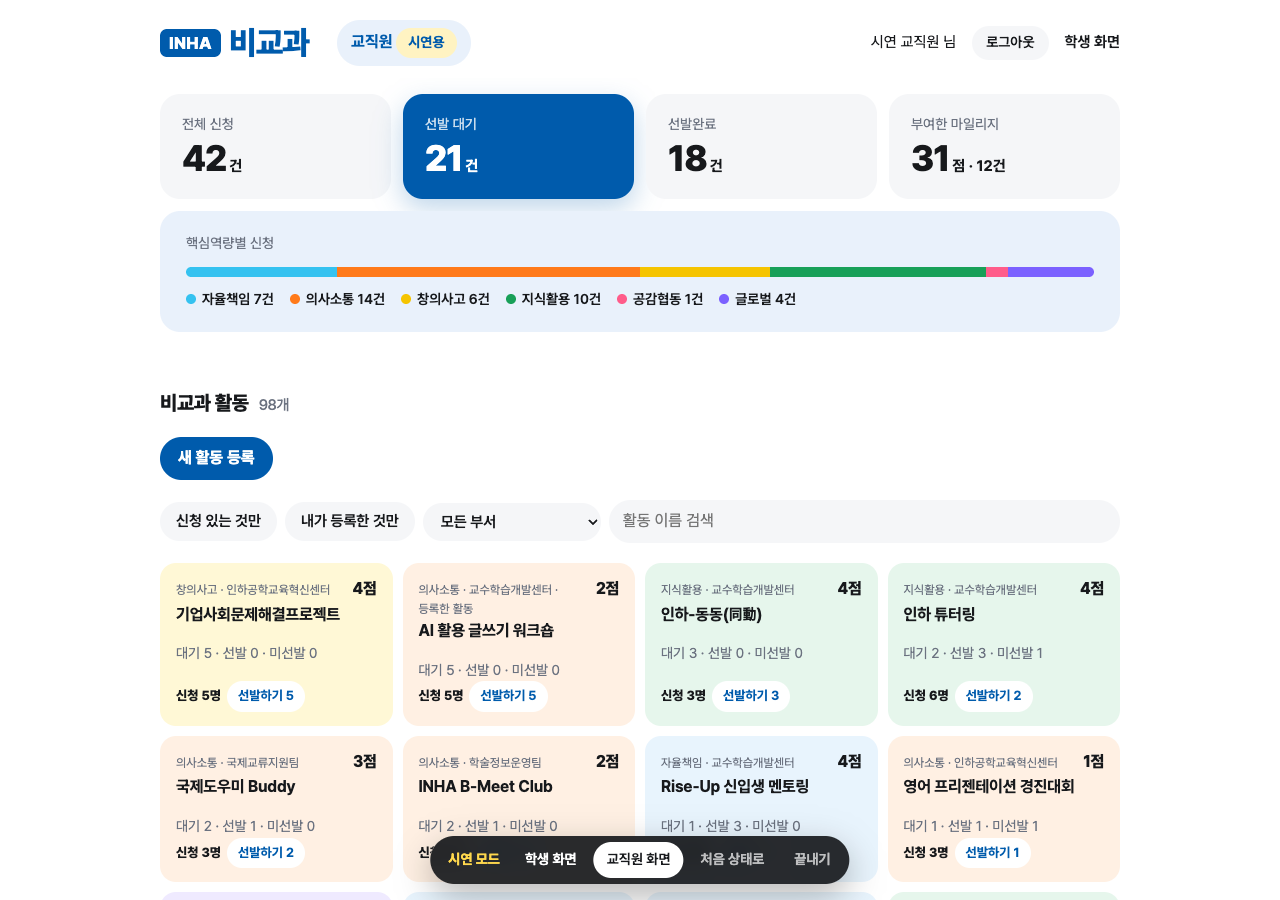
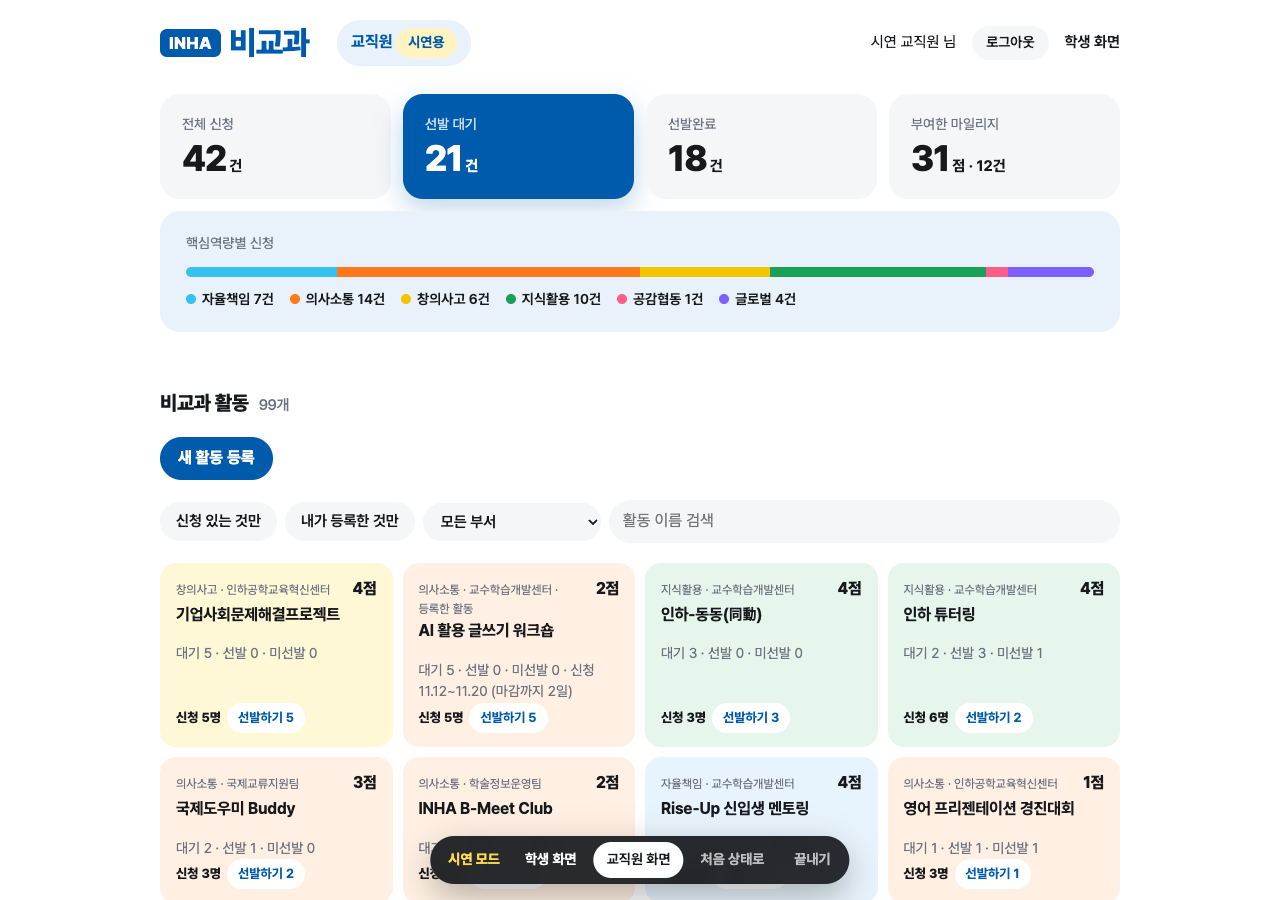
feat: 교직원이 활동 등록 때 신청 기간 지정, 학생 화면에 남은 신청 기간 표시

Changed region(s): [[0.125, 0.7467, 0.875, 1.0]]

diff --git a/js/admin.js b/js/admin.js
@@ -42,6 +42,8 @@ const program = PROGRAMS.find((p) => p.name === wanted);
 if (wanted && !program) location.replace('admin.html');
 $(program ? 'detailView' : 'listView').hidden = false;
 
+// 신청 기간이 있는 활동이면 ' · 신청 11.20~12.2 (마감까지 5일)'
+const periodText = (p) => { const period = applyPeriod(p, todayText()); return period ? ` · 신청 ${shortDate(p.applyFrom)}~${shortDate(p.applyTo)} (${periodLabel(period)})` : ''; };
 const applicantsOf = (name) => Object.entries(applications[name] || {});
 const count = (name, status) => applicantsOf(name).filter(([, a]) => a.status === status).length;
 
@@ -79,7 +81,7 @@ function renderList() {
     mine.append(
       el('span', total ? 'count' : 'count none', total ? `신청 ${total}명` : '신청 없음'),
       Object.assign(el('a', 'pill-link', waiting ? `선발하기 ${waiting}` : '신청자 보기'), { href: `admin.html?p=${encodeURIComponent(p.name)}` }));
-    const detail = total ? `대기 ${waiting} · 선발 ${count(p.name, 'selected')} · 미선발 ${count(p.name, 'rejected')}` : '아직 신청한 학생이 없어요';
+    const detail = (total ? `대기 ${waiting} · 선발 ${count(p.name, 'selected')} · 미선발 ${count(p.name, 'rejected')}` : '아직 신청한 학생이 없어요') + periodText(p);
     li.append(top, el('h3', '', p.name), el('p', 'hint', detail), mine);
     return li;
   }));
@@ -144,7 +146,7 @@ const render = program ? renderDetail : renderList;
 if (program) {
   document.title = `${program.name} 신청자 · 교직원 화면`;
   $('programName').textContent = program.name;
-  $('programInfo').textContent = `${program.dept} · ${program.comp} · 마일리지 ${program.points}점${program.team ? ` · 팀 구성: ${program.team}` : ''}`;
+  $('programInfo').textContent = `${program.dept} · ${program.comp} · 마일리지 ${program.points}점${program.team ? ` · 팀 구성: ${program.team}` : ''}${periodText(program)}`;
   document.querySelector('.pills').addEventListener('change', render);
   // 한 번에 처리: 대기 중인 신청을 모두 선발 / 아직 점수가 없는 선발자에게 활동의 기본 점수 부여
   $('grantAll').textContent = `선발자 전원에게 ${program.points}점 부여`;
@@ -184,11 +186,14 @@ if (program) {
     if (PROGRAMS.some((p) => p.name === name)) { say(`"${name}" 활동이 이미 있어요. 다른 이름으로 등록해 주세요.`); return; }
     // 값은 고르는 칸에서만 오게 하고, 점수는 1~30 사이로 맞춤 (저장된 값을 학생 화면이 그대로 씀)
     if (!name || !(text('pDept') in DEPTS) || !COMPS.includes(text('pComp'))) return;
+    const isDate = (value) => /^\d{4}-\d{2}-\d{2}$/.test(value);
+    if (!isDate(text('pFrom')) || !isDate(text('pTo'))) { say('신청 시작일과 마감일을 넣어 주세요.'); return; }
+    if (text('pFrom') > text('pTo')) { say('신청 마감일이 시작일보다 빨라요.'); return; }
     const added = {
       name, dept: text('pDept'), comp: text('pComp'),
       points: Math.min(30, Math.max(1, Math.round(Number($('pPoints').value)) || 1)),
       months: { term: TERM, vac: VAC, year: R(1, 12), any: ALL }[$('pWhen').value] ?? ALL,
-      custom: true,
+      applyFrom: text('pFrom'), applyTo: text('pTo'), custom: true,
     };
     if (text('pTeam')) added.team = text('pTeam');
     if (text('pNote')) added.note = text('pNote');

diff --git a/js/programs.js b/js/programs.js
@@ -33,7 +33,9 @@ function renderList() {
     (!$('dept').value || p.dept === $('dept').value) &&
     (!$('teamOnly').checked || p.team) &&
     (!$('appliedOnly').checked || applications[p.name]?.[me]) &&
-    (!q || p.name.toLowerCase().includes(q)));
+    (!q || p.name.toLowerCase().includes(q)))
+    // 지금 신청 기간인 활동을 맨 앞에
+    .sort((a, b) => (applyPeriod(b, todayText())?.state === 'open') - (applyPeriod(a, todayText())?.state === 'open'));
 
   $('count').textContent = `${shown.length}개`;
   $('empty').hidden = shown.length > 0;
@@ -47,6 +49,8 @@ function renderList() {
     const info = el('dl', 'info');
     const row = (title, ...detail) => { const dd = el('dd'); dd.append(...detail); info.append(el('dt', '', title), dd); };
     row('부서', Object.assign(el('a', '', p.dept), { href: DEPTS[p.dept], target: '_blank', rel: 'noopener' }));
+    const period = applyPeriod(p, todayText());
+    if (period) row('신청', `${shortDate(p.applyFrom)} ~ ${shortDate(p.applyTo)}`);
     if (p.team) row('팀', p.team);
     if (p.note) row('참고', p.note);
     const more = el('details');
@@ -55,10 +59,15 @@ function renderList() {
     // 학생은 신청만 함. 선발과 점수는 교직원 화면에서.
     const mine = el('div', 'mine');
     const application = applications[p.name]?.[me];
-    if (!application) {
+    // 신청 기간이 있는 활동은 남은 기간을 보여주고, 기간 밖에서는 신청을 막음
+    if (period && !application) mine.append(el('span', `period ${period.state}${period.state === 'open' && period.days <= 3 ? ' soon' : ''}`, periodLabel(period)));
+    if (!application && period && period.state !== 'open') {
+      // 신청 단추 없음
+    } else if (!application) {
       const button = el('button', 'primary', '신청하기');
       button.type = 'button';
       button.addEventListener('click', () => {
+        if (period && applyPeriod(p, todayText()).state !== 'open') { renderList(); return; } // 화면을 켜 둔 사이 마감된 경우
         (applications[p.name] ??= {})[me] = { status: 'applied', at: Date.now(), name: profile.name || '', dept: profile.dept || '' };
         saveApplications(); renderList();
       });

diff --git a/js/logic.js b/js/logic.js
@@ -32,6 +32,25 @@ function summarize(records, programs, term) {
 // 신청 상태 (학생 화면과 교직원 화면이 같이 씀)
 const APPLY_STATUS = { applied: '대기', selected: '선발완료', rejected: '미선발' };
 
+// 신청 기간. applyFrom~applyTo는 '2026-11-20' 모양이고 두 날 모두 신청할 수 있음. today도 같은 모양.
+// 기간이 없는 프로그램(가이드북 목록)은 null. state: before(시작 전) / open(신청 중) / closed(마감), days: 시작 또는 마감까지 남은 날
+function applyPeriod(program, today) {
+  if (!program.applyFrom || !program.applyTo) return null;
+  const days = (from, to) => Math.round((Date.parse(to) - Date.parse(from)) / 86400000);
+  if (today < program.applyFrom) return { state: 'before', days: days(today, program.applyFrom) };
+  if (today > program.applyTo) return { state: 'closed', days: 0 };
+  return { state: 'open', days: days(today, program.applyTo) };
+}
+const periodLabel = ({ state, days }) => ({
+  before: `${days}일 뒤 신청 시작`,
+  open: days === 0 ? '오늘 마감' : `마감까지 ${days}일`,
+  closed: '신청 마감',
+}[state]);
+// 날짜를 '2026-11-20' 모양으로 (이 기기 시간 기준, 안 주면 오늘)
+const todayText = (d = new Date()) => { return [d.getFullYear(), String(d.getMonth() + 1).padStart(2, '0'), String(d.getDate()).padStart(2, '0')].join('-'); };
+// '2026-11-20' → '11.20'
+const shortDate = (text) => `${Number(text.slice(5, 7))}.${Number(text.slice(8, 10))}`;
+
 const isStudentId = (text) => /^\d{8}$/.test(text);
 
 // 게시판 글쓴이 표시: 학번 전체 대신 입학 연도만 (12221234 → "22학번"). 인하대 학번이 12 + 입학 연도 두 자리로 시작한다고 가정함.
@@ -49,5 +68,5 @@ function grantedFor(applications, studentId) {
 }
 
 if (typeof module !== 'undefined') {
-  module.exports = { mileageTerm, termMonths, runsIn, summarize, APPLY_STATUS, isStudentId, authorLabel, grantedFor };
+  module.exports = { mileageTerm, termMonths, runsIn, summarize, APPLY_STATUS, isStudentId, authorLabel, grantedFor, applyPeriod, periodLabel, shortDate };
 }

diff --git a/js/demo.js b/js/demo.js
@@ -16,7 +16,12 @@ function seedDemo() {
     12229004: ['최용현', '기계공학과'], 12259005: ['정하늘', '국제통상학과'], 12239006: ['한바다', '해양과학과'],
     12249007: ['오하윤', '화학공학과'], 12259008: ['서지우', '전자공학과'], 12239009: ['문태오', '통계학과'],
   };
-  const custom = [{ name: 'AI 활용 글쓰기 워크숍', dept: '교수학습개발센터', comp: '의사소통', points: 2, months: TERM, custom: true, note: '회차별 20명' }];
+  // 교직원이 등록한 활동: 신청 중(마감 임박) 하나, 곧 시작 하나
+  const dateText = (offset) => todayText(new Date(now + offset * day));
+  const custom = [
+    { name: 'AI 활용 글쓰기 워크숍', dept: '교수학습개발센터', comp: '의사소통', points: 2, months: TERM, custom: true, note: '회차별 20명', applyFrom: dateText(-6), applyTo: dateText(2) },
+    { name: '겨울방학 코딩 부트캠프', dept: '인하공학교육혁신센터', comp: '지식활용', points: 4, months: VAC, custom: true, note: '3주 과정', applyFrom: dateText(4), applyTo: dateText(18) },
+  ];
 
   // '학번:상태+점수'. a=대기, s=선발완료, r=미선발, 뒤의 숫자는 부여한 점수. 끝에 p가 붙으면 지난 학기 점수.
   const plan = {
@@ -33,7 +38,7 @@ function seedDemo() {
     '인하-동동(同動)': '12239002:a 12249007:a 12259008:a',
     'INHA B-Meet Club': '12249003:a 12249007:s 12239009:a',
     '영어 프리젠테이션 경진대회': '12229001:r 12259008:s 12229004:a',
-    'AI 활용 글쓰기 워크숍': '12229001:a 12239002:a 12239006:a 12249007:a 12239009:a',
+    'AI 활용 글쓰기 워크숍': '12259008:a 12239002:a 12239006:a 12249007:a 12239009:a', // 시연 학생은 아직 신청 전 (직접 눌러 보게)
   };
   const applications = {};
   let n = 0;

diff --git a/js/test.js b/js/test.js
@@ -1,7 +1,7 @@
 // 실행: node js/test.js
 const assert = require('node:assert');
 const { PROGRAMS, DEPTS, COMPS } = require('./data.js');
-const { mileageTerm, termMonths, runsIn, summarize, grantedFor, authorLabel } = require('./logic.js');
+const { mileageTerm, termMonths, runsIn, summarize, grantedFor, authorLabel, applyPeriod, periodLabel, shortDate } = require('./logic.js');
 
 // 데이터 검사
 assert.equal(new Set(PROGRAMS.map((p) => p.name)).size, PROGRAMS.length, '프로그램 이름이 겹침');
@@ -48,6 +48,19 @@ const apps = {
 assert.deepEqual(grantedFor(apps, '12201234'), { '2026-2': { '인하 튜터링': 4 }, '2026-1': { '국제도우미 Buddy': 3 } });
 assert.deepEqual(grantedFor(apps, '00000000'), {});
 assert.equal(summarize(grantedFor(apps, '12201234'), PROGRAMS, '2026-2').termTotal, 4);
+
+// 신청 기간
+{
+  const p = { applyFrom: '2026-11-20', applyTo: '2026-12-02' };
+  assert.equal(applyPeriod({}, '2026-11-20'), null); // 기간이 없는 프로그램
+  assert.deepEqual(applyPeriod(p, '2026-11-17'), { state: 'before', days: 3 });
+  assert.deepEqual(applyPeriod(p, '2026-11-20'), { state: 'open', days: 12 }); // 시작하는 날, 달이 넘어가도 계산됨
+  assert.deepEqual(applyPeriod(p, '2026-12-02'), { state: 'open', days: 0 });  // 마감하는 날까지 신청 가능
+  assert.deepEqual(applyPeriod(p, '2026-12-03'), { state: 'closed', days: 0 });
+  assert.equal(periodLabel({ state: 'open', days: 0 }), '오늘 마감');
+  assert.equal(periodLabel({ state: 'open', days: 5 }), '마감까지 5일');
+  assert.equal(shortDate('2026-03-05'), '3.5');
+}
 
 // 글쓴이 표시
 assert.equal(authorLabel('12221234'), '22학번');

diff --git a/admin.html b/admin.html
@@ -5,7 +5,7 @@
 <meta name="viewport" content="width=device-width, initial-scale=1">
 <title>교직원 화면 (시연용) · 인하 비교과 마일리지</title>
 <link rel="stylesheet" href="https://cdn.jsdelivr.net/gh/orioncactus/pretendard@v1.3.9/dist/web/variable/pretendardvariable-dynamic-subset.min.css">
-<link rel="stylesheet" href="css/style.css?v=25">
+<link rel="stylesheet" href="css/style.css?v=26">
 </head>
 <body>
 <main>
@@ -56,6 +56,10 @@
             <option value="year">연중</option>
             <option value="any">상시 (공지 확인)</option>
           </select></label>
+        <label>신청 시작일
+          <input id="pFrom" type="date" required></label>
+        <label>신청 마감일
+          <input id="pTo" type="date" required></label>
         <label>팀 구성 (팀 활동일 때만)
           <input id="pTeam" maxlength="40" placeholder="예: 3~5명 팀"></label>
         <label>참고 (선택)
@@ -107,9 +111,9 @@
     <div class="actions" style="margin-top:32px"><button type="button" id="removeProgram" hidden>이 활동 삭제</button></div>
   </section>
 </main>
-<script src="js/data.js?v=25"></script>
-<script src="js/logic.js?v=25"></script>
-<script src="js/demo.js?v=25"></script>
-<script src="js/admin.js?v=25"></script>
+<script src="js/data.js?v=26"></script>
+<script src="js/logic.js?v=26"></script>
+<script src="js/demo.js?v=26"></script>
+<script src="js/admin.js?v=26"></script>
 </body>
 </html>

diff --git a/mypage.html b/mypage.html
@@ -5,7 +5,7 @@
 <meta name="viewport" content="width=device-width, initial-scale=1">
 <title>마이페이지 · 인하 비교과 마일리지</title>
 <link rel="stylesheet" href="https://cdn.jsdelivr.net/gh/orioncactus/pretendard@v1.3.9/dist/web/variable/pretendardvariable-dynamic-subset.min.css">
-<link rel="stylesheet" href="css/style.css?v=25">
+<link rel="stylesheet" href="css/style.css?v=26">
 </head>
 <body>
 <main class="my">
@@ -59,12 +59,12 @@
   <ul id="myComments" class="posts" aria-labelledby="comments-title"></ul>
   <p id="commentsEmpty" class="empty">아직 쓴 댓글이 없어요.</p>
 </main>
-<script src="js/data.js?v=25"></script>
-<script src="js/logic.js?v=25"></script>
-<script src="js/demo.js?v=25"></script>
-<script src="js/config.js?v=25"></script>
-<script src="js/board.js?v=25"></script>
-<script src="js/common.js?v=25"></script>
-<script src="js/mypage.js?v=25"></script>
+<script src="js/data.js?v=26"></script>
+<script src="js/logic.js?v=26"></script>
+<script src="js/demo.js?v=26"></script>
+<script src="js/config.js?v=26"></script>
+<script src="js/board.js?v=26"></script>
+<script src="js/common.js?v=26"></script>
+<script src="js/mypage.js?v=26"></script>
 </body>
 </html>

diff --git a/programs.html b/programs.html
@@ -5,7 +5,7 @@
 <meta name="viewport" content="width=device-width, initial-scale=1">
 <title>프로그램 신청 · 인하 비교과 마일리지</title>
 <link rel="stylesheet" href="https://cdn.jsdelivr.net/gh/orioncactus/pretendard@v1.3.9/dist/web/variable/pretendardvariable-dynamic-subset.min.css">
-<link rel="stylesheet" href="css/style.css?v=25">
+<link rel="stylesheet" href="css/style.css?v=26">
 </head>
 <body>
 <main>
@@ -53,12 +53,12 @@
       확정 마일리지는 인하포털 → 학사행정 → 비교과과정에서 확인하세요.</p>
   </div>
 </footer>
-<script src="js/data.js?v=25"></script>
-<script src="js/logic.js?v=25"></script>
-<script src="js/demo.js?v=25"></script>
-<script src="js/config.js?v=25"></script>
-<script src="js/board.js?v=25"></script>
-<script src="js/common.js?v=25"></script>
-<script src="js/programs.js?v=25"></script>
+<script src="js/data.js?v=26"></script>
+<script src="js/logic.js?v=26"></script>
+<script src="js/demo.js?v=26"></script>
+<script src="js/config.js?v=26"></script>
+<script src="js/board.js?v=26"></script>
+<script src="js/common.js?v=26"></script>
+<script src="js/programs.js?v=26"></script>
 </body>
 </html>

diff --git a/index.html b/index.html
@@ -5,7 +5,7 @@
 <meta name="viewport" content="width=device-width, initial-scale=1">
 <title>인하 비교과 마일리지</title>
 <link rel="stylesheet" href="https://cdn.jsdelivr.net/gh/orioncactus/pretendard@v1.3.9/dist/web/variable/pretendardvariable-dynamic-subset.min.css">
-<link rel="stylesheet" href="css/style.css?v=25">
+<link rel="stylesheet" href="css/style.css?v=26">
 </head>
 <body>
 <main>
@@ -163,12 +163,12 @@
       확정 마일리지는 인하포털 → 학사행정 → 비교과과정에서 확인하세요.</p>
   </div>
 </footer>
-<script src="js/data.js?v=25"></script>
-<script src="js/logic.js?v=25"></script>
-<script src="js/demo.js?v=25"></script>
-<script src="js/config.js?v=25"></script>
-<script src="js/board.js?v=25"></script>
-<script src="js/common.js?v=25"></script>
-<script src="js/home.js?v=25"></script>
+<script src="js/data.js?v=26"></script>
+<script src="js/logic.js?v=26"></script>
+<script src="js/demo.js?v=26"></script>
+<script src="js/config.js?v=26"></script>
+<script src="js/board.js?v=26"></script>
+<script src="js/common.js?v=26"></script>
+<script src="js/home.js?v=26"></script>
 </body>
 </html>

diff --git a/team.html b/team.html
@@ -5,7 +5,7 @@
 <meta name="viewport" content="width=device-width, initial-scale=1">
 <title>팀원 구하기 · 인하 비교과 마일리지</title>
 <link rel="stylesheet" href="https://cdn.jsdelivr.net/gh/orioncactus/pretendard@v1.3.9/dist/web/variable/pretendardvariable-dynamic-subset.min.css">
-<link rel="stylesheet" href="css/style.css?v=25">
+<link rel="stylesheet" href="css/style.css?v=26">
 </head>
 <body>
 <main>
@@ -32,11 +32,11 @@
   <ul id="posts" class="posts" aria-labelledby="posts-title"></ul>
   <p id="empty" class="empty">아직 글이 없어요. 첫 글을 써보세요.</p>
 </main>
-<script src="js/data.js?v=25"></script>
-<script src="js/logic.js?v=25"></script>
-<script src="js/demo.js?v=25"></script>
-<script src="js/config.js?v=25"></script>
-<script src="js/board.js?v=25"></script>
-<script src="js/team.js?v=25"></script>
+<script src="js/data.js?v=26"></script>
+<script src="js/logic.js?v=26"></script>
+<script src="js/demo.js?v=26"></script>
+<script src="js/config.js?v=26"></script>
+<script src="js/board.js?v=26"></script>
+<script src="js/team.js?v=26"></script>
 </body>
 </html>

diff --git a/login.html b/login.html
@@ -5,7 +5,7 @@
 <meta name="viewport" content="width=device-width, initial-scale=1">
 <title>로그인 · 인하 비교과 마일리지</title>
 <link rel="stylesheet" href="https://cdn.jsdelivr.net/gh/orioncactus/pretendard@v1.3.9/dist/web/variable/pretendardvariable-dynamic-subset.min.css">
-<link rel="stylesheet" href="css/style.css?v=25">
+<link rel="stylesheet" href="css/style.css?v=26">
 </head>
 <body class="login">
   <section class="login-art">
@@ -43,9 +43,9 @@
     </form>
   </main>
 
-<script src="js/data.js?v=25"></script>
-<script src="js/logic.js?v=25"></script>
-<script src="js/demo.js?v=25"></script>
+<script src="js/data.js?v=26"></script>
+<script src="js/logic.js?v=26"></script>
+<script src="js/demo.js?v=26"></script>
 <script>
   // shortcut: 진짜 로그인이 아님. 학번(교직원은 사번)만 이 브라우저에 기억하고 비밀번호는 버림. 이름·학과는 마이페이지에서 적음. 서버(Supabase)나 학교 로그인으로 바꿀 때 이 부분을 교체.
   const $ = (id) => document.getElementById(id);

diff --git a/css/style.css b/css/style.css
@@ -165,6 +165,9 @@ summary { cursor: pointer; color: var(--sub); font-weight: 500; }
 .status.selected { background: var(--blue-soft); color: var(--inha); }
 .status.done { background: var(--inha); color: #fff; }
 .status.rejected { background: #eceef2; color: var(--sub); }
+.period { font-size: .8125rem; font-weight: 700; color: var(--inha); width: 100%; }
+.period.soon { color: var(--error); }
+.period.before, .period.closed { color: var(--sub); }
 .count { font-weight: 800; }
 .count.none { font-weight: 500; color: var(--sub); }
 .empty { color: var(--sub); padding: 32px 0; }
